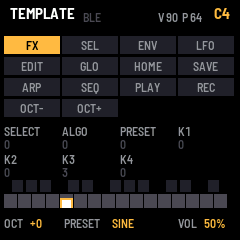
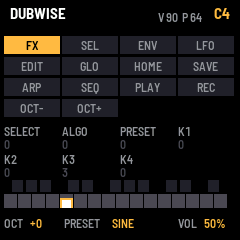
P0.0: remove Bluetooth (ble = false, ble_central = false)
The radio stacks fill most of the FM-1's RAM, which the dub bus needs.

- fm1.toml: ble = false, ble_central = false.
- app.h: drop APP_BTDEV, APP_BLE_AT_BOOT, template_ble_off and the OBJ_BLE
  store object (settings and panel keep their flash offsets).
- app.c: drop the REC hold (Bluetooth on/off), REC device scan/connect,
  ALGO device pick, the BLE/DEV header indicators, TO_BLE sends and the
  saved ble_off flag. The settings magic is now "DUB1", so a template
  record loads defaults. REC is an ordinary button. Velocity and pressure
  (APP_TOUCH) are kept.
- basic.txt: the Bluetooth scenarios are replaced by a check that the
  radio stays off and REC is a plain button.
- Manual, landing page and screenshots: no Bluetooth, named DUBWISE.
- firmware.json (for firmware hubs) committed; its features no longer
  list Bluetooth.

Device link (JieLi toolchain 20260730.1, AC79 SDK V1.2.1):
  image      225716 B -> 87492 B
  .ram_text    9164 B -> 4964 B  (of 32768)
  .data+.bss  76420 B -> 27828 B (of 98304)
  pool        93960 B -> 69384 B (of 344064)

Claude-Session: https://claude.ai/code/session_01GSTvjMb848ASjPbPe5cnK6

Changed region(s): [[0.0292, 0.0292, 0.3208, 0.0875], [0.35, 0.0292, 0.4083, 0.1167]]

diff --git a/app/app.c b/app/app.c
@@ -7,13 +7,12 @@
  * gfx.c and announce.c are in scope. */
 #include "fastmath.h"
 
-#define SET_MAGIC 0x54504C31u            /* "TPL1": the settings record; another magic loads defaults */
+#define SET_MAGIC 0x44554231u            /* "DUB1": the settings record; another magic (the template's) loads defaults */
 typedef struct {
     uint32_t magic;
     int8_t octave;                       /* -2 .. +2 */
     uint8_t wave;                        /* 0 sine, 1 triangle */
-    uint8_t ble_off;                     /* Bluetooth switched off (REC held); 0, the default: on */
-    uint8_t rsv[1];
+    uint8_t rsv[2];
 } settings_t;
 static settings_t set;
 static uint8_t set_dirty;                /* changed since the last save: SAVE is lit */
@@ -94,13 +93,12 @@ static void settings_defaults(void)
     set.magic = SET_MAGIC;
     set.octave = 0;
     set.wave = 0;
-    set.ble_off = 0;
 }
 
 void app_init(void)
 {
     if (plat_store_load(OBJ_SETTINGS, &set, sizeof set) != (int)sizeof set || set.magic != SET_MAGIC
-        || set.octave < -2 || set.octave > 2 || set.wave > 1u || set.ble_off > 1u)
+        || set.octave < -2 || set.octave > 2 || set.wave > 1u)
         settings_defaults();
 }
 
@@ -111,8 +109,6 @@ static struct {
     uint32_t keys, btn;                  /* held at the last input */
     uint8_t vel[NKEYS], prs[NKEYS];      /* each key's last velocity, and its pressure while held */
     int32_t last_key;                    /* the key pressed last: its numbers in the header */
-    uint8_t looking;                     /* Bluetooth MIDI devices: REC pressed, the scan's list up (lib/btdev) */
-    uint32_t rec_t;                      /* REC went down (0: not held, or its hold already acted) */
     int32_t turns[NE];                   /* detents since boot, per encoder */
     uint32_t turned_at[NE];              /* when each was last turned: it shows lit for a moment */
     uint8_t redraw;
@@ -227,40 +223,6 @@ static void octave_step(int32_t d)
     app_say("OCTAVE", t);
 }
 
-int template_ble_off(void) { return set.ble_off; }
-
-/* REC held a second: Bluetooth off or on (kept with the settings, so it stays so at the next power-on) */
-static void ble_toggle(void)
-{
-    set.ble_off = (uint8_t)!set.ble_off;
-    set_dirty = 1;
-    plat_ble_enable(!set.ble_off);
-    app_say("BLUETOOTH", set.ble_off ? "OFF" : "ON");
-}
-
-/* REC: a Bluetooth MIDI device (FM1B_BLE_CENTRAL, lib/btdev): look for devices, then connect to the one ALGORITHM
- * picks, then let it go */
-static void ble_device_say(void)
-{
-    char name[21];
-    if (btdev_found(btdev_pick(), name, 0))
-        app_say("DEVICE", name);
-    else
-        app_say("BLE", "SCANNING");
-}
-static void ble_device_button(void)
-{
-    int ev;
-    if (!btdev_busy() && !ui.looking) {
-        ui.looking = 1;
-        app_say("BLE", "SCANNING");
-        return;
-    }
-    ev = btdev_save();
-    ui.looking = 0;
-    app_say(ev == BTDEV_CONNECTING ? btdev_word(ev) : "BLE", ev == BTDEV_CONNECTING ? btdev_name() : btdev_word(ev));
-}
-
 static void input(void)
 {
     uint32_t keys, btn = plat_buttons(), k;
@@ -276,15 +238,15 @@ static void input(void)
             ui.prs[k] = 0;
             ui.last_key = (int32_t)k;
             note_on(note, v);
-            plat_midi_send(0x09u | 0x90u << 8 | (uint32_t)note << 16 | v << 24, TO_USB | TO_BLE);   /* BLE: if built with it */
+            plat_midi_send(0x09u | 0x90u << 8 | (uint32_t)note << 16 | v << 24, TO_USB);
         } else if (!(keys & bit) && (ui.keys & bit)) {
             ui.prs[k] = 0;
             note_off(note);
-            plat_midi_send(0x08u | 0x80u << 8 | (uint32_t)note << 16, TO_USB | TO_BLE);
+            plat_midi_send(0x08u | 0x80u << 8 | (uint32_t)note << 16, TO_USB);
         } else if ((keys & bit) && touch_pressure(k) != ui.prs[k]) {   /* pressure: poly aftertouch */
             ui.prs[k] = touch_pressure(k);
             ui.redraw = 1;
-            plat_midi_send(0x0Au | 0xA0u << 8 | (uint32_t)note << 16 | (uint32_t)ui.prs[k] << 24, TO_USB | TO_BLE);
+            plat_midi_send(0x0Au | 0xA0u << 8 | (uint32_t)note << 16 | (uint32_t)ui.prs[k] << 24, TO_USB);
         }
     }
     for (k = 0; k < NB; k++) {               /* a button pressed: its name, and what it does here */
@@ -295,8 +257,6 @@ static void input(void)
             octave_step(-1);
         else if (k == B_OCTUP)
             octave_step(1);
-        else if (k == B_REC && FM1B_BLE)
-            ui.rec_t = plat_ms();                /* a press: on release (a hold switches Bluetooth) */
         else if (k == B_SAVE) {
             if (plat_store_save(OBJ_SETTINGS, &set, sizeof set) == 0) {
                 set_dirty = 0;
@@ -308,20 +268,6 @@ static void input(void)
             app_say("BUTTON", BTN_NAME[k]);
         }
     }
-    if (FM1B_BLE && ui.rec_t) {             /* REC: held a second, Bluetooth on / off; a press, a device */
-        if (btn >> B_REC & 1u) {
-            if (plat_ms() - ui.rec_t >= 1000u) {
-                ui.rec_t = 0;
-                ble_toggle();
-            }
-        } else {
-            ui.rec_t = 0;
-            if (FM1B_BLE_CENTRAL && !set.ble_off)
-                ble_device_button();
-            else
-                app_say("BUTTON", "REC");
-        }
-    }
     for (k = 0; k < NE; k++) {               /* an encoder turned: its count; PRESET also changes the wave */
         char t[12];
         if ((e = plat_enc((int)k)) == 0)
@@ -329,10 +275,7 @@ static void input(void)
         ui.turns[k] += e;
         ui.turned_at[k] = plat_ms();
         ui.redraw = 1;
-        if (k == EN_ALGO && FM1B_BLE_CENTRAL && ui.looking) {
-            btdev_choose(btdev_pick() + e);
-            ble_device_say();
-        } else if (k == EN_PRESET) {
+        if (k == EN_PRESET) {
             set.wave ^= 1u;
             set_dirty = 1;
             app_say("WAVE", WAVE_NAME[set.wave]);
@@ -382,11 +325,7 @@ static void draw(void)
         int32_t x = cv_text(10, 6, &FONT_B, ui.msg[0], C_WHITE);
         cv_text(x + 8, 6, &FONT_B, ui.msg[1], C_HI);
     } else {
-        int32_t x = cv_text(10, 6, &FONT_B, APP_NAME, C_WHITE);
-        if (FM1B_BLE)                        /* Bluetooth: grey while it waits, lit while a computer is connected */
-            x = cv_text(x + 8, 10, &FONT_XS, "BLE", plat_ble_connected() ? C_HI : C_DIM);
-        if (FM1B_BLE_CENTRAL)                /* a Bluetooth MIDI device: lit while connected */
-            cv_text(x + 6, 10, &FONT_XS, "DEV", plat_ble_device() == BLE_DEV_READY ? C_HI : C_DIM);
+        cv_text(10, 6, &FONT_B, APP_NAME, C_WHITE);
         if (note >= 0) {                     /* the note, and the last key's velocity and pressure */
             int32_t x;
             note_name(note, t);
@@ -460,7 +399,7 @@ void app_ui_init(void)
 
 void app_frame(void)
 {
-    static uint32_t last_pct, lit_until, last_ble, last_midi;
+    static uint32_t last_pct, lit_until, last_midi;
     uint32_t i, now = plat_ms(), pct = plat_master() * 100u / 4096u;
     input();
     speak();
@@ -471,25 +410,12 @@ void app_frame(void)
         lit_until = 0;
         ui.redraw = 1;
     }
-    if (FM1B_BLE_CENTRAL) {                  /* looking: a device found is named at once (REC connects to it) */
-        static int found;
-        int n = ui.looking ? btdev_count() : 0, ev;
-        btdev_page(ui.looking && !set.ble_off);
-        if (n > found && btdev_pick() < n)
-            ble_device_say();
-        found = n;
-        while ((ev = btdev_event()) != BTDEV_NONE)   /* a device connected, given up or lost */
-            if (ev == BTDEV_CONNECTED || ev == BTDEV_NO_ANSWER || ev == BTDEV_LOST)
-                app_say("DEVICE", btdev_word(ev));
-    }
     if (midi_count != last_midi) {
         last_midi = midi_count;
         ui.redraw = 1;
     }
-    if (pct != last_pct || (uint32_t)(plat_ble_connected() | plat_ble_device() << 1) != last_ble ||
-        (ui.msg_until && now >= ui.msg_until)) {
+    if (pct != last_pct || (ui.msg_until && now >= ui.msg_until)) {
         last_pct = pct;
-        last_ble = (uint32_t)(plat_ble_connected() | plat_ble_device() << 1);
         if (now >= ui.msg_until)
             ui.msg_until = 0;
         ui.redraw = 1;

diff --git a/app/app.h b/app/app.h
@@ -10,14 +10,11 @@
 #define APP_SPLASH_RGB RGB(242, 120, 72)
 #define APP_BLOCK 256u                   /* frames per audio block: 5.8 ms at 44.1 kHz */
 #define APP_TOUCH                        /* velocity and pressure from the keys (lib/touch.h) */
-#define APP_BTDEV                        /* Bluetooth MIDI devices (lib/btdev.h) */
-#define APP_BLE_AT_BOOT (!template_ble_off())   /* Bluetooth at power-on: as the player left it (REC held) */
-int template_ble_off(void);
+/* no radio (fm1.toml ble = false, roadmap P0.0): its RAM goes to the dub bus */
 
-/* the store: the app's objects, the panel calibration (the platform's) and Bluetooth's address and pairing among
- * them, and their flash offsets */
-enum { OBJ_SETTINGS, OBJ_PANEL, OBJ_BLE, OBJ_NOBJ };
-#define APP_STORE_MAP {0xFC000u, 0xDC000u, 0xDE000u}
+/* the store: the app's objects and the panel calibration (the platform's), and their flash offsets */
+enum { OBJ_SETTINGS, OBJ_PANEL, OBJ_NOBJ };
+#define APP_STORE_MAP {0xFC000u, 0xDC000u}
 
 /* the contract: the platform calls these */
 void app_init(void);                     /* boot: the engine, then the saved settings (or defaults) */

diff --git a/app/docs/MANUAL.md b/app/docs/MANUAL.md
@@ -1,13 +1,13 @@
-# TEMPLATE
+# DUBWISE
 
-TEMPLATE is the smallest complete firmware for the M-VAVE FM-1, and it's made to be copied. As you use a control,
-its name shows on the screen. The keys play a simple voice with velocity and pressure, and a few controls do
-something: they set the octave, the wave and the volume, and save your settings. MIDI goes out over USB and
-Bluetooth. Like a finished firmware, it installs, updates, runs in the browser and speaks to a screen reader.
+DUBWISE (Dubwise FM) will be a reggae/dub groovebox for the M-VAVE FM-1, where the mixing desk is the instrument.
+This early build (roadmap P0.0) is still fm1-base's template with the radio taken out. As you use a control, its
+name shows on the screen. The keys play a simple voice with velocity and pressure, and a few controls do
+something: they set the octave, the wave and the volume, and save your settings. MIDI goes out over USB. It
+installs, updates, runs in the browser and speaks to a screen reader. There's no Bluetooth: the RAM it would take
+goes to the dub bus.
 
-This manual is an example too. Copy it with the template and write your own firmware's manual from it.
-
-![The TEMPLATE screen at rest: the name at the top, the 14 buttons in four rows, the seven knobs with their counts, the keys, then OCT +0, PRESET SINE, VOL 50%](img/screen-ready.png "TEMPLATE at rest")
+![The DUBWISE screen at rest: the name at the top, the 14 buttons in four rows, the seven knobs with their counts, the keys, then OCT +0, PRESET SINE, VOL 50%](img/screen-ready.png "DUBWISE at rest")
 
 ---
 
@@ -31,7 +31,7 @@ mouse, a touch screen or your computer keyboard.
 To install it from the browser, use Chrome or Edge. Connect the FM-1 by USB, open the installer and press Install.
 The browser asks once to allow MIDI, so allow it. Don't unplug the cable while it writes.
 
-To install it from a terminal, run `python3 tools/fm1_install.py template-VERSION.fwsc`.
+To install it from a terminal, run `python3 tools/fm1_install.py dubwise-VERSION.fwsc`.
 
 To go back to the stock firmware, use the installer's last section, which writes M-VAVE's own firmware back. You
 can recover an FM-1 that doesn't start, too. For details, see felucca-bsp's `tools/fm1_rescue.sh`.
@@ -40,11 +40,11 @@ can recover an FM-1 that doesn't start, too. For details, see felucca-bsp's `too
 
 ## 2. The screen
 
-![TEMPLATE while a key is held: C4 in the header with V 90 P 64, FX lit among the buttons, K3 at 3, the key filled on the keyboard](img/screen-playing.png "A key held, FX pressed, K3 turned")
+![DUBWISE while a key is held: C4 in the header with V 90 P 64, FX lit among the buttons, K3 at 3, the key filled on the keyboard](img/screen-playing.png "A key held, FX pressed, K3 turned")
 
 | Part | What it shows |
 | --- | --- |
-| Header | The name, and BLE, which lights while a computer or tablet is connected over Bluetooth. While you play a key, it shows the note, the velocity it landed at (V) and how hard you're pressing it (P). After a change, a message shows here for a moment. |
+| Header | The name. While you play a key, it shows the note, the velocity it landed at (V) and how hard you're pressing it (P). After a change, a message shows here for a moment. |
 | Buttons | All 14, by their names. A button lights while you hold it. |
 | Knobs | The seven encoders, each with a count of its turns. A knob lights for a moment as you turn it. |
 | Keys | The 27 keys, black above white. A held key fills up to its velocity, and white over that shows its pressure. |
@@ -56,19 +56,18 @@ can recover an FM-1 that doesn't start, too. For details, see felucca-bsp's `too
 
 | Control | What it does |
 | --- | --- |
-| Keys | Play the voice, louder the harder they land. Each key also sends its note with its velocity over USB and Bluetooth, on channel 1. Press a held key harder to send aftertouch. The last key you pressed is the one that sounds. |
+| Keys | Play the voice, louder the harder they land. Each key also sends its note with its velocity over USB, on channel 1. Press a held key harder to send aftertouch. The last key you pressed is the one that sounds. |
 | OCT− · OCT+ | Set the octave, from −2 to +2. |
 | PRESET | Picks the wave: sine or triangle. |
 | MASTER | Sets the volume. |
-| SAVE | Saves the octave, the wave and whether Bluetooth is on or off. SAVE lights while there's something to save. |
-| REC | Press it to find and connect a Bluetooth MIDI device. Hold it for a second to switch Bluetooth off or on. For details, see MIDI and audio. |
+| SAVE | Saves the octave and the wave. SAVE lights while there's something to save. |
 | Every other button and knob | Shows its name on the screen, and does nothing else. This is where you wire up your own firmware. |
 
 ---
 
 ## 4. Saving
 
-Press SAVE to keep the octave, the wave and whether Bluetooth is on. They come back the next time the FM-1 starts. SAVE stays lit while
+Press SAVE to keep the octave and the wave. They come back the next time the FM-1 starts. SAVE stays lit while
 there are changes to save.
 
 ![After OCT+ and PRESET: OCT +1 and PRESET TRIANGLE, SAVE waiting](img/screen-settings.png "OCT+ and PRESET changed, not saved yet")
@@ -77,34 +76,21 @@ there are changes to save.
 
 ## 5. MIDI and audio
 
-MIDI comes in over USB, Bluetooth and the TRS jack. A note on any channel plays the voice, and a note off releases
-it. The keys send notes with their velocity, and poly aftertouch, out over USB and Bluetooth.
-
-Over Bluetooth, TEMPLATE shows up as "FM-1". On a Mac, open Audio MIDI Setup, choose Window > Show MIDI Studio,
-click the Bluetooth button, then click Connect next to FM-1. On an iPad or iPhone, connect from a music app's
-Bluetooth MIDI settings.
-
-To switch Bluetooth off, hold REC for a second. The screen says BLUETOOTH OFF, and the FM-1 stops advertising and
-drops any connection. Hold REC again to switch it back on. To keep your choice for the next time the FM-1 starts,
-press SAVE.
-
-To connect TEMPLATE to a Bluetooth MIDI device, such as a keyboard or a controller, first put the device in its
-pairing or advertising mode. Then press REC, and the screen says BLE SCANNING. Turn ALGORITHM to pick the device
-by its name, and press REC again to connect. DEV in the header lights while it's connected, and the bottom line
-shows the last message it sent. To disconnect, press REC once more.
+MIDI comes in over USB and the TRS jack. A note on any channel plays the voice, and a note off releases it. The
+keys send notes with their velocity, and poly aftertouch, out over USB. DUBWISE has no Bluetooth.
 
 The keys sense how hard you play them, with no change to the FM-1. The 20 lowest keys
 (F3 to C5) give velocity and pressure. The top seven give velocity only.
 
 Over the USB cable, the FM-1 is also a sound card. Your computer can record what it plays from an input named
-"TEMPLATE FM-1". It can also play through the FM-1: choose "TEMPLATE FM-1" as the output, and you'll hear it from
+"DUBWISE FM-1". It can also play through the FM-1: choose "DUBWISE FM-1" as the output, and you'll hear it from
 the FM-1's speaker and headphones, mixed with the FM-1's own sound, at MASTER's volume.
 
 ---
 
 ## 6. The screen reader
 
-TEMPLATE tells a screen reader what's on its screen, through the
+DUBWISE tells a screen reader what's on its screen, through the
 [FM-1 Screen Reader](https://charlesvestal.github.io/fm1-reader/). When the reader starts listening, it hears the
 name and the settings, and then each change as it happens. The emulator does the same, with your own screen
 reader or with its built-in voice.

diff --git a/app/site/landing.md b/app/site/landing.md
@@ -1,11 +1,12 @@
-# TEMPLATE
+# DUBWISE
 
-TEMPLATE is the smallest complete firmware for the M-VAVE FM-1, and it's made to be copied. Every control shows
-its name on the screen as you use it. The keys play a simple voice with velocity and pressure, your settings save,
-MIDI goes in and out over USB and Bluetooth and comes in over TRS, and it works with a screen reader. Copy it
-to start your own firmware on fm1-base.
+Dubwise FM will be a reggae/dub groovebox for the M-VAVE FM-1, where the mixing desk is the instrument: quantised
+mutes and solos, send throws into a feedback tape echo and a kickable spring, and a stepped Big Knob filter. This
+early build is still fm1-base's template, without Bluetooth. Every control shows its name on the screen as you use
+it, the keys play a simple voice with velocity and pressure, your settings save, MIDI goes in and out over USB and
+comes in over TRS, and it works with a screen reader.
 
-![TEMPLATE while a key is held: C4 in the header with V 90 P 64, FX lit among the buttons, K3 at 3, the key filled](manual/img/screen-playing.png "TEMPLATE on the FM-1's screen")
+![DUBWISE while a key is held: C4 in the header with V 90 P 64, FX lit among the buttons, K3 at 3, the key filled](manual/img/screen-playing.png "DUBWISE on the FM-1's screen")
 
 This is version {{VERSION}}. You install it at your own risk, and the installer can put M-VAVE's own firmware back.
 
@@ -14,7 +15,7 @@ This is version {{VERSION}}. You install it at your own risk, and the installer 
 - [Install](install/) it from Chrome or Edge, with the FM-1 connected by USB.
 - The [Manual](manual/) explains the screen, the controls, saving and MIDI.
 - [Download {{PKG}}](firmware/{{PKG}}) to use the command-line installer: `python3 tools/fm1_install.py {{PKG}}`.
-- The [Source](https://github.com/charlesvestal/fm1-base) is under MPL-2.0. It's built on fm1-base and
-  felucca-bsp, which come from Felucca by Leo Kuroshita, Hügelton Instruments.
+- The [Source](https://github.com/DocRuzzy/dubwise-fm) is under GPL-3.0-only. It's built on fm1-base (MPL-2.0) and
+  felucca-bsp (MPL-2.0), which come from Felucca by Leo Kuroshita, Hügelton Instruments.
 
-M-VAVE and FM-1 are trademarks of their owners. TEMPLATE is not affiliated with M-VAVE.
+M-VAVE and FM-1 are trademarks of their owners. Dubwise FM is not affiliated with M-VAVE.
